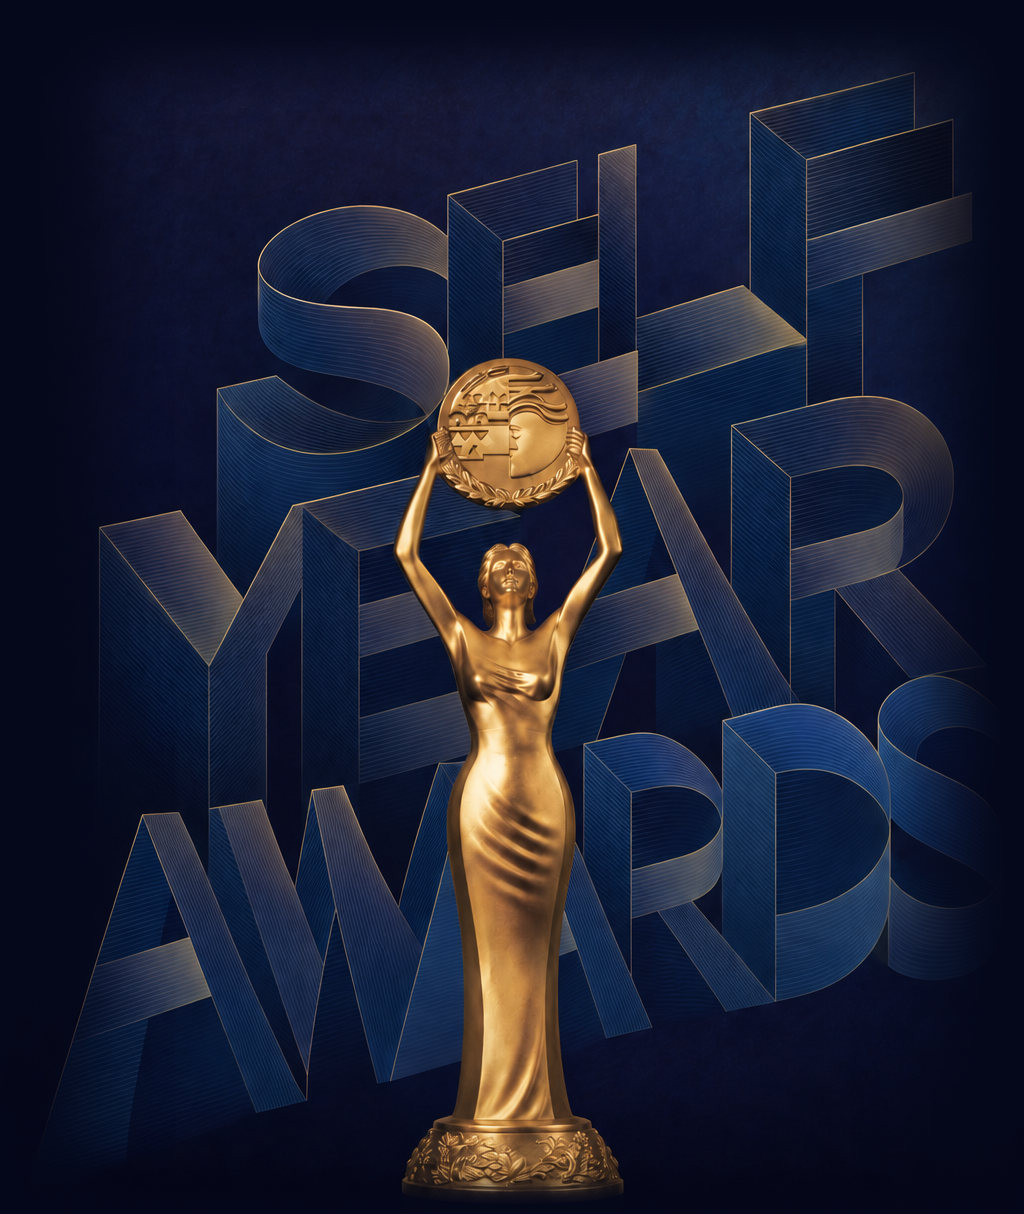
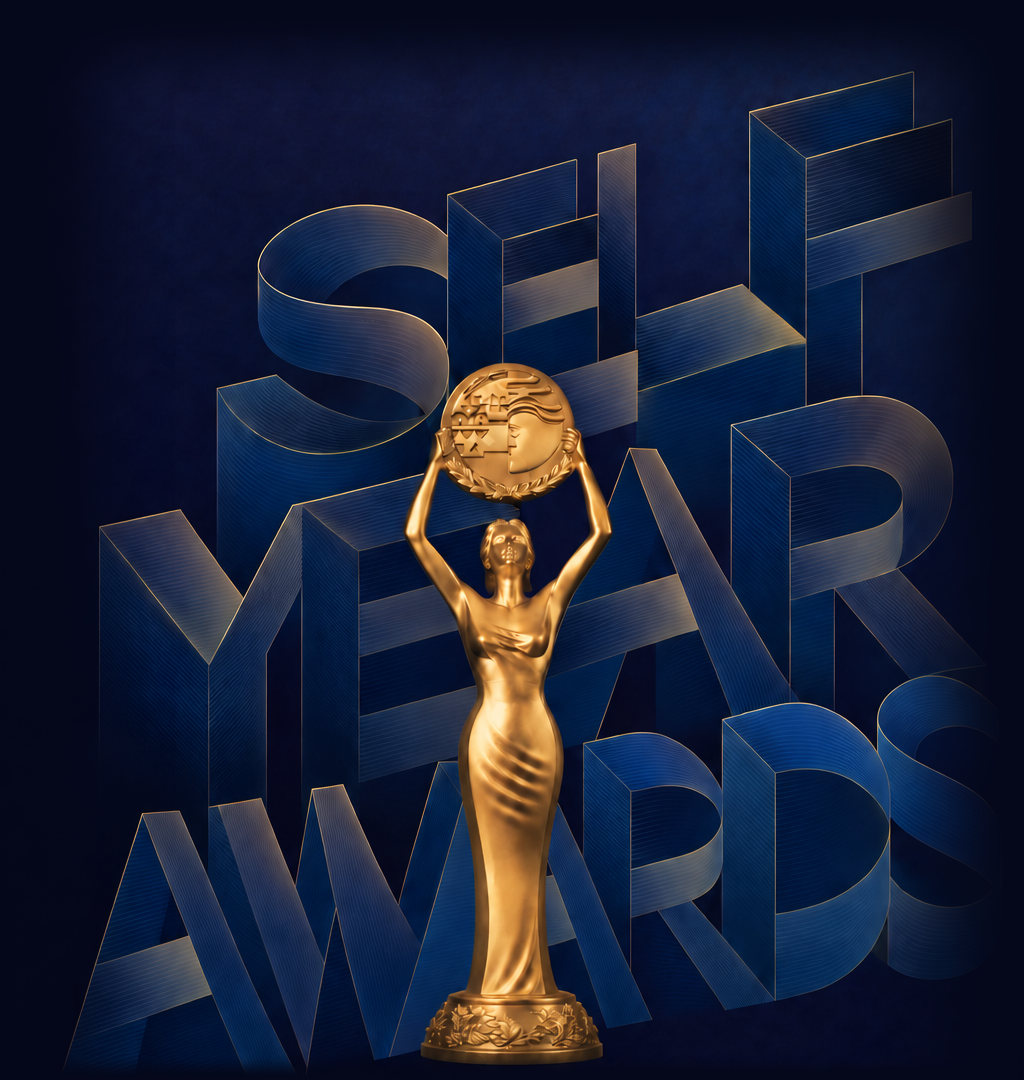
수정 포스터 반영, 행사 정보 입력, 하단 로고 삭제
- 새 포스터로 트로피 그림·포스터 원본·공유 이미지 교체 (공유 이미지에 날짜·장소, 로고 없음)
- 첫 화면에 포스터처럼 11. 13. 금 — 11. 14. 토 날짜 줄 추가
- 일시(금 19–21시, 토 13–17시)·장소(상상마당 부산 1층)·참가비 10,000원·문의 전화 입력, 대상 항목 삭제
- '신청 오픈 예정' 칸 삭제, 상장 날짜 11월로 수정, 하단 로고 삭제

diff --git a/index.html b/index.html
@@ -4,7 +4,7 @@
 <meta charset="utf-8">
 <meta name="viewport" content="width=device-width, initial-scale=1, viewport-fit=cover">
 <title>2026 셀프 시상식 | 나에게 내가 주는 상</title>
-<meta name="description" content="2026년을 돌아보며 나에게 꼭 맞는 상을 정하고 스스로에게 건네는 연말 시상식, 셀프 시상식. KT&amp;G 상상마당 부산에서 열립니다.">
+<meta name="description" content="2026년 11월 13일(금)·14일(토), KT&amp;G 상상마당 부산 1층. 올해의 나를 돌아보고 나에게 꼭 맞는 상을 스스로에게 건네는 셀프 시상식. 참가비 10,000원.">
 <meta name="theme-color" content="#05081a">
 <meta name="color-scheme" content="dark">
 <link rel="canonical" href="https://rkzm211.github.io/selfawards/">
@@ -13,12 +13,12 @@
 <meta property="og:image" content="https://rkzm211.github.io/selfawards/assets/og.jpg">
 <meta property="og:image:width" content="1200">
 <meta property="og:image:height" content="630">
-<meta property="og:image:alt" content="2026 셀프 시상식 — 트로피와 SELF YEAR AWARDS 글자, KT&amp;G 상상마당 부산">
+<meta property="og:image:alt" content="2026 셀프 시상식, 11월 13일–14일 KT&amp;G 상상마당 부산 1층">
 <meta name="twitter:image" content="https://rkzm211.github.io/selfawards/assets/og.jpg">
 <meta property="og:locale" content="ko_KR">
 <meta property="og:site_name" content="셀프 시상식">
 <meta property="og:title" content="2026 셀프 시상식 — 나에게 내가 주는 상">
-<meta property="og:description" content="올해의 나를 돌아보고, 나에게 꼭 맞는 상을 건네는 연말 시상식. KT&amp;G 상상마당 부산.">
+<meta property="og:description" content="11. 13.(금) 19:00–21:00 · 11. 14.(토) 13:00–17:00 | KT&amp;G 상상마당 부산 1층 | 참가비 10,000원">
 <meta name="twitter:card" content="summary_large_image">
 <link rel="icon" href="assets/favicon.svg" type="image/svg+xml">
 <link rel="apple-touch-icon" href="assets/apple-touch-icon.png">
@@ -65,7 +65,7 @@
 
   /* ---------- hero: the poster, alive ---------- */
   .hero {
-    --w: min(100vw, 620px, calc(64vh * .8435));   /* art width; text sizes follow it */
+    --w: min(100vw, 620px, calc(58vh * .9481));   /* art width (art is 1024x1080); text sizes follow it */
     position: relative;
     text-align: center;
     padding: 0 0 clamp(64px, 10vh, 112px);
@@ -75,7 +75,7 @@
     overflow: hidden;
   }
   @supports (height: 1svh) {
-    .hero { --w: min(100vw, 620px, calc(64svh * .8435)); }
+    .hero { --w: min(100vw, 620px, calc(58svh * .9481)); }
   }
   .art {
     position: relative;
@@ -111,12 +111,24 @@
   }
   .title { margin: .55em auto 0; width: min(86vw, calc(var(--w) * .78)); }
   .title img { width: 100%; height: auto; }
+  .dates {
+    display: flex;
+    align-items: center;
+    justify-content: center;
+    gap: .7em;
+    margin: .95em 0 0;
+    font: 700 max(21px, calc(var(--w) * .058))/1 var(--serif);
+    color: var(--ivory);
+    letter-spacing: .02em;
+  }
+  .dates small { margin-left: .2em; font-size: .62em; color: var(--gold); letter-spacing: 0; }
+  .dates i { display: block; width: 2.6em; height: 1px; background: rgba(244, 237, 224, .7); }
   .meta {
     display: flex;
     flex-wrap: wrap;
     justify-content: center;
     gap: 4px 14px;
-    margin: 22px 0 0;
+    margin: 16px 0 0;
     font-size: 15px;
     color: var(--mist);
     letter-spacing: -.01em;
@@ -170,13 +182,6 @@
     border: 1px solid rgba(216, 180, 106, .55);
   }
   .btn-line:hover { background: rgba(216, 180, 106, .08); }
-  .btn-soon {
-    margin-bottom: 0;
-    color: var(--gold);
-    background: rgba(216, 180, 106, .06);
-    border: 1px dashed rgba(216, 180, 106, .5);
-    cursor: default;
-  }
 
   /* ---------- shared section rhythm ---------- */
   .section { padding: clamp(72px, 11vw, 136px) 20px; }
@@ -319,7 +324,7 @@
   .invite {
     position: relative;
     margin-top: 40px;
-    padding: 34px clamp(22px, 5vw, 48px) 40px;
+    padding: 20px clamp(22px, 5vw, 48px) 20px;
     background: linear-gradient(180deg, rgba(20, 32, 78, .55), rgba(12, 20, 52, .55));
     border: 1px solid rgba(216, 180, 106, .5);
     box-shadow: inset 0 0 0 6px var(--midnight), inset 0 0 0 7px rgba(216, 180, 106, .22);
@@ -332,12 +337,22 @@
     padding: 18px 0;
     border-bottom: 1px solid rgba(244, 237, 224, .09);
   }
+  .fact:last-child { border-bottom: 0; }
   .fact dt { font: 700 16px/1.6 var(--serif); color: var(--gold); letter-spacing: .08em; }
   .fact dd { margin: 0; font-size: 17px; line-height: 1.6; }
+  .when { display: block; font-variant-numeric: tabular-nums; }
+  .when + .when { margin-top: 4px; }
+  .tel {
+    color: var(--ivory);
+    font-variant-numeric: tabular-nums;
+    text-decoration-color: rgba(216, 180, 106, .7);
+    text-underline-offset: 4px;
+  }
   .tbd { color: var(--mist); }
   .map {
-    display: inline-block;
-    margin-left: 8px;
+    display: block;
+    width: max-content;
+    margin-top: 2px;
     font-size: 14px;
     color: var(--gold);
     text-underline-offset: 3px;
@@ -356,17 +371,7 @@
     color: var(--ivory);
   }
   .closing em { font-style: normal; color: var(--gold); }
-  .logos {
-    display: flex;
-    flex-wrap: wrap;
-    align-items: center;
-    justify-content: center;
-    gap: 28px 44px;
-    margin-top: 56px;
-  }
-  .logos .ktng { height: 40px; width: auto; }
-  .logos .cd { height: 26px; width: auto; }
-  .fine { margin: 40px 0 0; font-size: 13px; color: #6f7590; }
+  .fine { margin: 44px 0 0; font-size: 13px; color: #6f7590; }
   .fine a { text-underline-offset: 3px; }
 
   /* ---------- load sequence ---------- */
@@ -375,7 +380,7 @@
     .vlabel { animation: fade 1.2s .7s both; }
     .kicker { animation: up .9s .35s cubic-bezier(.2, .7, .2, 1) both; }
     .title  { animation: up 1s .5s cubic-bezier(.2, .7, .2, 1) both; }
-    .meta, .actions { animation: up .9s .7s cubic-bezier(.2, .7, .2, 1) both; }
+    .dates, .meta, .actions { animation: up .9s .7s cubic-bezier(.2, .7, .2, 1) both; }
   }
   @keyframes rise-in { from { opacity: 0; transform: translateY(14px) scale(1.015); } to { opacity: 1; transform: none; } }
   @keyframes up { from { opacity: 0; transform: translateY(12px); } to { opacity: 1; transform: none; } }
@@ -406,7 +411,7 @@
     <div class="art">
       <picture>
         <source srcset="assets/hero-art.webp" type="image/webp">
-        <img src="assets/hero-art.jpg" width="1024" height="1214" fetchpriority="high"
+        <img src="assets/hero-art.jpg" width="1024" height="1080" fetchpriority="high"
              alt="원반을 머리 위로 들어 올린 황금 여신상 트로피 뒤로 SELF YEAR AWARDS 입체 글자가 펼쳐진 포스터 그림">
       </picture>
       <p class="vlabel" aria-hidden="true">
@@ -419,7 +424,11 @@
         <span class="sr-only">셀프 시상식</span>
         <img src="assets/title.svg" width="721" height="140" alt="" aria-hidden="true">
       </h1>
-      <p class="meta"><span class="tbd">일정 추후 안내</span><span>KT&amp;G 상상마당 부산</span></p>
+      <p class="dates">
+        <span class="sr-only">2026년 11월 13일 금요일, 14일 토요일</span>
+        <span aria-hidden="true">11. 13.<small>금</small></span><i aria-hidden="true"></i><span aria-hidden="true">11. 14.<small>토</small></span>
+      </p>
+      <p class="meta"><span>KT&amp;G 상상마당 부산 1층</span></p>
       <div class="actions">
         <a class="btn btn-gold" href="#info">행사 안내 보기</a>
         <a class="btn btn-line" href="#about">어떤 시상식인가요?</a>
@@ -445,7 +454,7 @@
           <p class="cert-award swap" data-k="award">올해의 버팀상</p>
           <p class="cert-name"><span>성명</span><span>나</span></p>
           <p class="cert-body swap">위 사람은 2026년 한 해 동안 <span data-k="reason">힘든 날에도 끝까지 버텨 내며 하루하루를 살아냈으므로</span> 스스로에게 이&nbsp;상장을 수여합니다.</p>
-          <p class="cert-date">2026년 12월</p>
+          <p class="cert-date">2026년 11월</p>
           <p class="cert-giver"><small>셀프 시상식</small>수여자 나
             <svg class="seal" viewBox="0 0 100 100" aria-hidden="true">
               <defs>
@@ -479,14 +488,12 @@
       <h2 class="h2" id="info-title">행사 안내</h2>
       <div class="invite">
         <dl class="facts">
-          <div class="fact"><dt>일시</dt><dd class="tbd">추후 안내</dd></div>
-          <div class="fact"><dt>장소</dt><dd>KT&amp;G 상상마당 부산<a class="map" href="https://map.naver.com/p/search/KT%26G%20%EC%83%81%EC%83%81%EB%A7%88%EB%8B%B9%20%EB%B6%80%EC%82%B0" target="_blank" rel="noopener">지도 보기</a></dd></div>
-          <div class="fact"><dt>대상</dt><dd class="tbd">추후 안내</dd></div>
-          <div class="fact"><dt>참가비</dt><dd class="tbd">추후 안내</dd></div>
-          <div class="fact"><dt>문의</dt><dd class="tbd">추후 안내</dd></div>
+          <div class="fact"><dt>일시</dt><dd><span class="when">11. 13.(금) 19:00 – 21:00</span><span class="when">11. 14.(토) 13:00 – 17:00</span></dd></div>
+          <div class="fact"><dt>장소</dt><dd>KT&amp;G 상상마당 부산 1층<a class="map" href="https://map.naver.com/p/search/KT%26G%20%EC%83%81%EC%83%81%EB%A7%88%EB%8B%B9%20%EB%B6%80%EC%82%B0" target="_blank" rel="noopener">지도 보기</a></dd></div>
+          <div class="fact"><dt>참가비</dt><dd>10,000원</dd></div>
+          <div class="fact"><dt>문의</dt><dd><a class="tel" href="tel:010-9318-5346">010-9318-5346</a></dd></div>
         </dl>
-        <!-- 신청 링크가 생기면: <a class="btn btn-gold" id="apply" href="신청주소" target="_blank" rel="noopener">참가 신청하기</a> -->
-        <p class="btn btn-soon" id="apply">신청 오픈 예정</p>
+        <!-- 신청 링크가 생기면 여기에: <a class="btn btn-gold" id="apply" href="신청주소" target="_blank" rel="noopener">참가 신청하기</a> -->
       </div>
     </div>
   </section>
@@ -494,10 +501,6 @@
 
 <footer class="footer">
   <p class="closing">올해 가장 애쓴 사람에게<br><em>상을 줄 차례</em>입니다</p>
-  <div class="logos">
-    <img class="ktng" src="assets/logo-ktng.png" width="520" height="210" alt="KT&amp;G">
-    <img class="cd" src="assets/logo-cd.png" width="620" height="130" alt="콘텐츠개발원">
-  </div>
   <p class="fine">© 2026 셀프 시상식 · <a href="assets/poster.jpg" target="_blank" rel="noopener">포스터 원본 보기</a></p>
 </footer>
 
